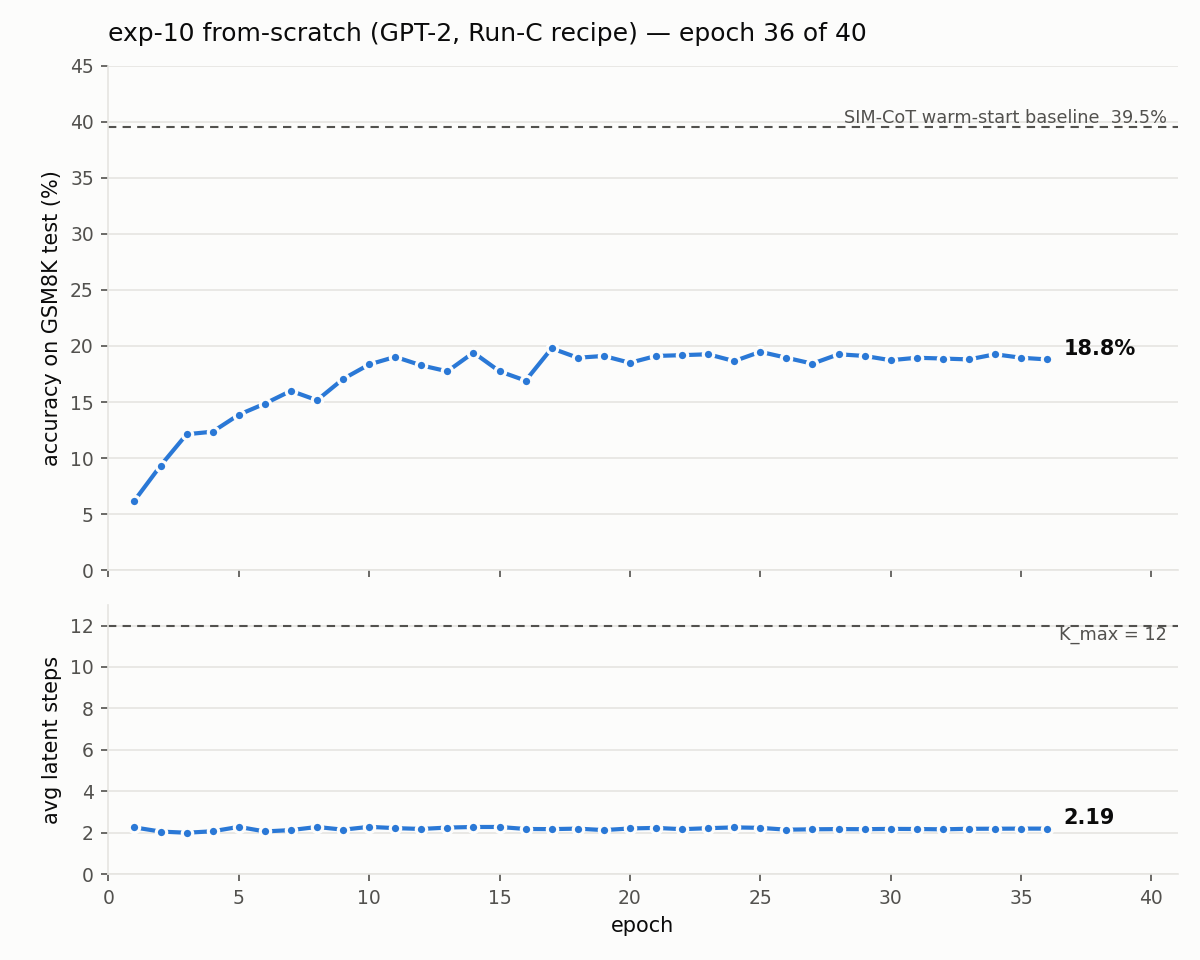
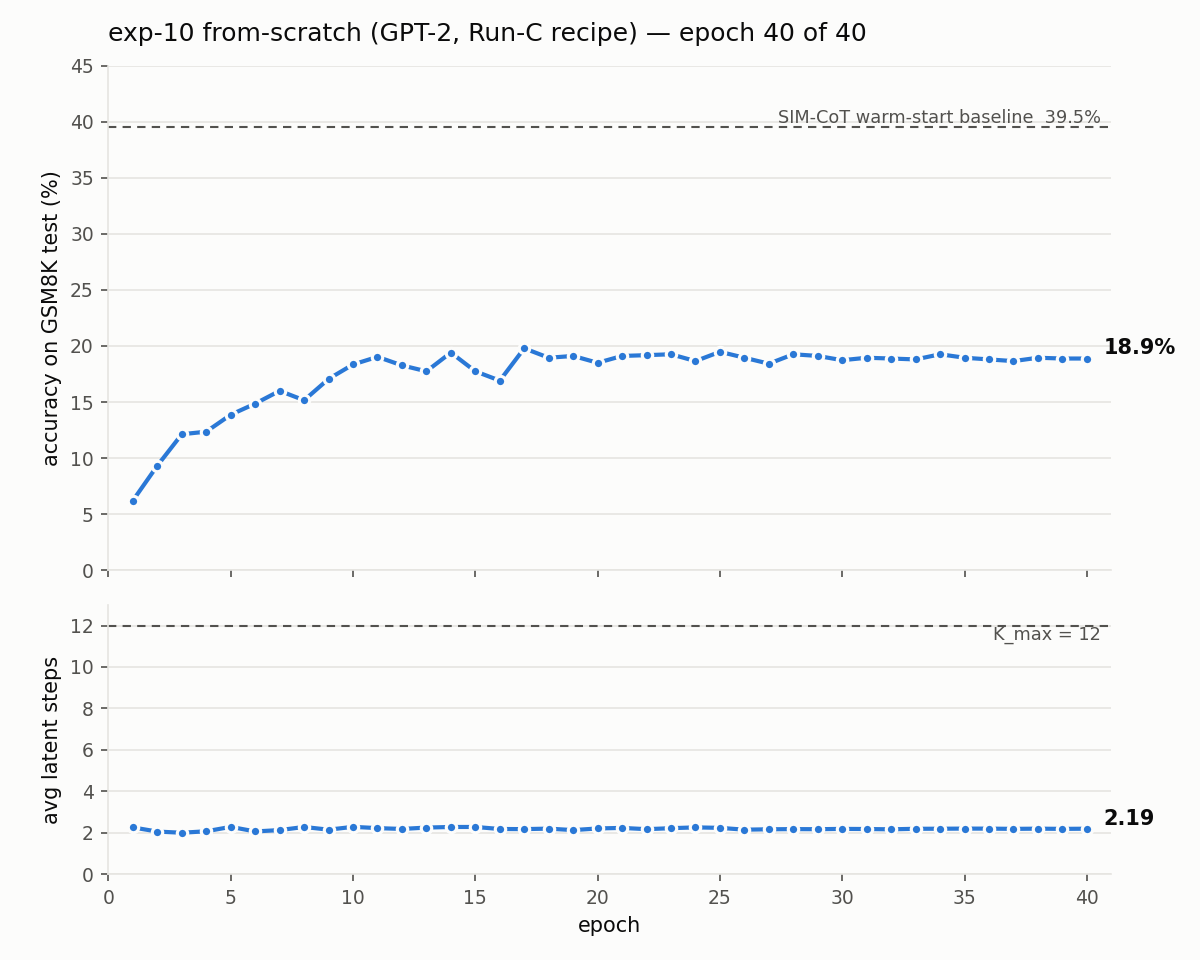
exp-10: run complete — final accuracy 18.88% (40/40 epochs, plateau at ep11+)

diff --git a/docs/experiments/10-simcot-pondernet-fromscratch/gcp-handoff.md b/docs/experiments/10-simcot-pondernet-fromscratch/gcp-handoff.md
@@ -1,7 +1,8 @@
 # exp-10 — GCP: the full 40-epoch from-scratch run on a Spot RTX PRO 6000
 
-**Status (2026-07-10):** **running.** `RESUME_MODE=scratch` — cold GPT-2, one continuous
-40-epoch cosine, ~40.4 h. Per-epoch test accuracy is scored on a second GPU in a second project.
+**Status (2026-07-11): complete.** 40/40 epochs trained and evaluated. Final accuracy
+**18.88%** on the GSM8K test set (vs. 39.5% SIM-CoT warm-start baseline) — see § Results below
+for the full curve and what it means. Both VMs are stopped.
 
 The plan changed once the hardware was measured. Resuming from the epoch-12 hand-off checkpoint
 was only ever attractive because 28 epochs on the L4 meant 13.5 days. At the measured
@@ -249,11 +250,56 @@ Two ordering hazards, both handled: a `.ready` marker is written *after* the wei
 single-object writes atomic, never multi-object ones), and the uploader waits for the file size
 to settle because HF creates the checkpoint directory before finishing the write.
 
-### Results
+### Results — run complete (40/40 epochs, 2026-07-11)
 
-| epoch | accuracy (test, 1319 ex) | avg latent steps | eval wall time |
-|---|---|---|---|
-| 1 | 6.22 % | 2.253 | 234 s |
+Training ran 38h 59m on the Spot RTX PRO 6000 (predicted 40.4h; no preemptions occurred, so
+the difference is measurement noise around the 1.01h/epoch estimate, not lost time). Every
+epoch was scored on the full 1319-example GSM8K test set at batch_size=1, K_max=12.
+
+**Headline: 18.88% final accuracy, vs. the 39.5% SIM-CoT warm-start baseline — the model
+converged to a plateau, it did not run out of epochs before converging.** Accuracy rose
+6.22% → ~19% over epochs 1-11, then held inside **17-19.8%** for all 30 remaining epochs
+(11-40), including the low-LR tail (36-40: 18.65/18.95/18.88/18.88%) where a late convergence
+push would show up if one were coming. None appeared. `avg_steps_used` stayed flat at ~2.2 of
+a K_max=12 budget for the entire run — the halting head is not spending more compute to buy
+the accuracy the warm-start run gets, so the ~20.6pp gap is attributable to what the SIM-CoT
+checkpoint's own ~40 epochs of pretraining contributed, which is exactly the confound exp-10
+was designed to isolate.
+
+Full per-epoch table (accuracy_pct, avg_steps_used from each epoch's `summary.json`):
+
+| epoch | accuracy | avg steps | | epoch | accuracy | avg steps |
+|---|---|---|---|---|---|---|
+| 1 | 6.22% | 2.253 | | 21 | 19.11% | 2.230 |
+| 2 | 9.33% | 2.053 | | 22 | 19.18% | 2.168 |
+| 3 | 12.13% | 1.996 | | 23 | 19.26% | 2.216 |
+| 4 | 12.36% | 2.067 | | 24 | 18.65% | 2.255 |
+| 5 | 13.87% | 2.279 | | 25 | 19.48% | 2.232 |
+| 6 | 14.86% | 2.059 | | 26 | 18.95% | 2.144 |
+| 7 | 16.00% | 2.124 | | 27 | 18.42% | 2.163 |
+| 8 | 15.16% | 2.275 | | 28 | 19.26% | 2.172 |
+| 9 | 17.06% | 2.144 | | 29 | 19.11% | 2.167 |
+| 10 | 18.35% | 2.281 | | 30 | 18.73% | 2.182 |
+| 11 | 19.03% | 2.219 | | 31 | 18.95% | 2.176 |
+| 12 | 18.27% | 2.179 | | 32 | 18.88% | 2.161 |
+| 13 | 17.74% | 2.246 | | 33 | 18.80% | 2.187 |
+| 14 | 19.41% | 2.274 | | 34 | 19.26% | 2.190 |
+| 15 | 17.74% | 2.275 | | 35 | 18.95% | 2.196 |
+| 16 | 16.91% | 2.177 | | 36 | 18.80% | 2.195 |
+| 17 | 19.79% | 2.171 | | 37 | 18.65% | 2.183 |
+| 18 | 18.95% | 2.195 | | 38 | 18.95% | 2.193 |
+| 19 | 19.11% | 2.124 | | 39 | 18.88% | 2.183 |
+| 20 | 18.50% | 2.203 | | 40 | 18.88% | 2.191 |
+
+Full curve: `results-curve.png`. Raw `summary.json`/`eval.log` per epoch, the full `train.log`,
+and the TensorBoard events are archived locally under `models/checkpoints/10-.../`,
+`outputs/10-.../`, `results/10-.../` (gitignored — not in this repo). The final checkpoint
+(`checkpoint-119960`, epoch 40, full with optimizer/scheduler/rng — 1.2 GB) was pulled to the
+same `models/checkpoints/` path before the VMs were stopped.
+
+Both cloud VMs (`alr-exp10-spot`, `alr-eval-l4`) are **STOPPED**, not deleted — their disks
+persist. Total eval cost: 40 epochs × ~234s ≈ 2.6h of on-demand L4 ≈ $2. Training cost: ~39h
+of Spot RTX PRO 6000.
 
 ## Scripts
 